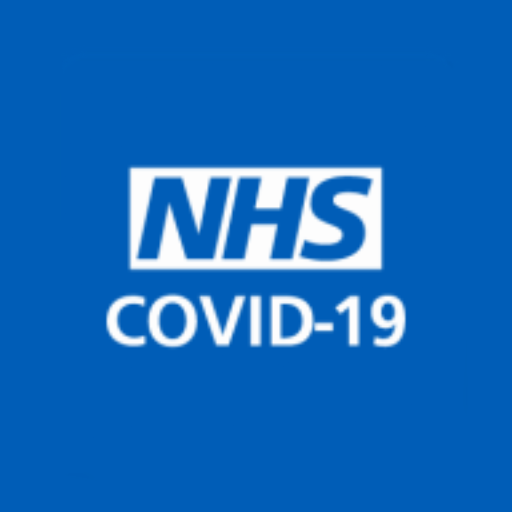
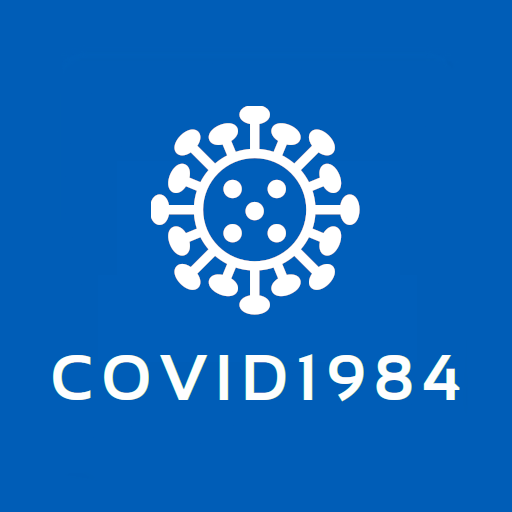
Fix breakage in iPhones, changed branding

Changed region(s): [[0.0938, 0.1875, 0.9062, 0.7812]]

diff --git a/public/index.html b/public/index.html
@@ -7,10 +7,10 @@
 
     <meta content="yes" name="mobile-web-app-capable" />
     <meta content="yes" name="apple-mobile-web-app-capable" />
-    <meta content="NHS Covid-19" name="application-name" />
-    <meta content="NHS Covid-19" name="apple-mobile-web-app-title" />
+    <meta content="Covid1984" name="application-name" />
+    <meta content="Covid1984" name="apple-mobile-web-app-title" />
     <meta name="theme-color" content="#000000" />
-    <meta name="description" content="NHS Covid-19" />
+    <meta name="description" content="Covid1984" />
     <link
       rel="apple-touch-icon"
       href="%PUBLIC_URL%/android-chrome-512x512.png"
@@ -21,8 +21,8 @@
     -->
     <link rel="manifest" href="%PUBLIC_URL%/manifest.json" />
 
-    <meta itemprop="name" content="NHS Covid-19" />
-    <meta itemprop="description" content="NHS Covid-19" />
+    <meta itemprop="name" content="Covid1984" />
+    <meta itemprop="description" content="Covid1984" />
     <meta
       itemprop="image"
       content="https://covid.sick.earth/android-chrome-512x512.png"
@@ -31,8 +31,8 @@
     <!-- Facebook Meta Tags -->
     <meta property="og:url" content="https://covid.sick.earth" />
     <meta property="og:type" content="website" />
-    <meta property="og:title" content="NHS Covid-19" />
-    <meta property="og:description" content="NHS Covid-19" />
+    <meta property="og:title" content="Covid1984" />
+    <meta property="og:description" content="Covid1984" />
     <meta
       property="og:image"
       content="https://covid.sick.earth/android-chrome-512x512.png"
@@ -40,8 +40,8 @@
 
     <!-- Twitter Meta Tags -->
     <meta name="twitter:card" content="summary_large_image" />
-    <meta name="twitter:title" content="NHS Covid-19" />
-    <meta name="twitter:description" content="NHS Covid-19" />
+    <meta name="twitter:title" content="Covid1984" />
+    <meta name="twitter:description" content="Covid1984" />
     <meta
       name="twitter:image"
       content="https://covid.sick.earth/android-chrome-512x512.png"
@@ -61,7 +61,7 @@
       work correctly both with client-side routing and a non-root public URL.
       Learn how to configure a non-root public URL by running `npm run build`.
     -->
-    <title>NHS Covid-19</title>
+    <title>Covid1984</title>
   </head>
   <body>
     <noscript>You need to enable JavaScript to run this app.</noscript>

diff --git a/src/components/About.js b/src/components/About.js
@@ -28,43 +28,18 @@ const About = React.memo((props) => {
             </li>
           </ul>
           <div className="donate">
-            <h3>Please send donations/tips to: </h3>
-
-            <div className="crypto">
-              BTC: bc1qt54pz3ynwd2ucgf6ucffhx2c5qcfr967zzqevd
-            </div>
-            <div className="paypal">
-              Or via PayPal
-              <form
-                action="https://www.paypal.com/cgi-bin/webscr"
-                method="post"
-                target="_top"
+            This app is for demonstrative purposes only and is in no way
+            affiliated with or a representative of the NHS.
+            <p>
+              For discussion and support please join the{" "}
+              <a
+                href="https://t.me/joinchat/PAhGy0lzfjiogiZpVMcxOw"
+                alt="Telegram chat"
               >
-                <input type="hidden" name="cmd" value="_s-xclick" />
-                <input
-                  type="hidden"
-                  name="hosted_button_id"
-                  value="RMYC8SD4RYKV6"
-                />
-                <input
-                  type="image"
-                  src="https://www.paypalobjects.com/en_GB/i/btn/btn_donate_LG.gif"
-                  border="0"
-                  name="submit"
-                  title="PayPal - The safer, easier way to pay online!"
-                  alt="Donate with PayPal button"
-                />
-                <img
-                  className="paypalButton"
-                  alt=""
-                  border="0"
-                  src="https://www.paypal.com/en_GB/i/scr/pixel.gif"
-                  width="1"
-                  height="1"
-                />
-              </form>
-            </div>
-            <p>Thank you.</p>
+                Telegram chat
+              </a>
+              .
+            </p>
           </div>
           <div>
             <p className="footerText">
@@ -90,7 +65,7 @@ const About = React.memo((props) => {
               </a>
               <a
                 title="Github"
-                href="https://github.com/isati/react-nhs-qr-app"
+                href="https://github.com/isati/react-covid1984-app"
               >
                 {" "}
                 <img

diff --git a/src/containers/App.js b/src/containers/App.js
@@ -20,7 +20,7 @@ class App extends PureComponent {
       venue: null,
       text: null,
       permission: null,
-      loading: true,
+      loading: false,
     };
 
     this.handleVenue = this.handleVenue.bind(this);
